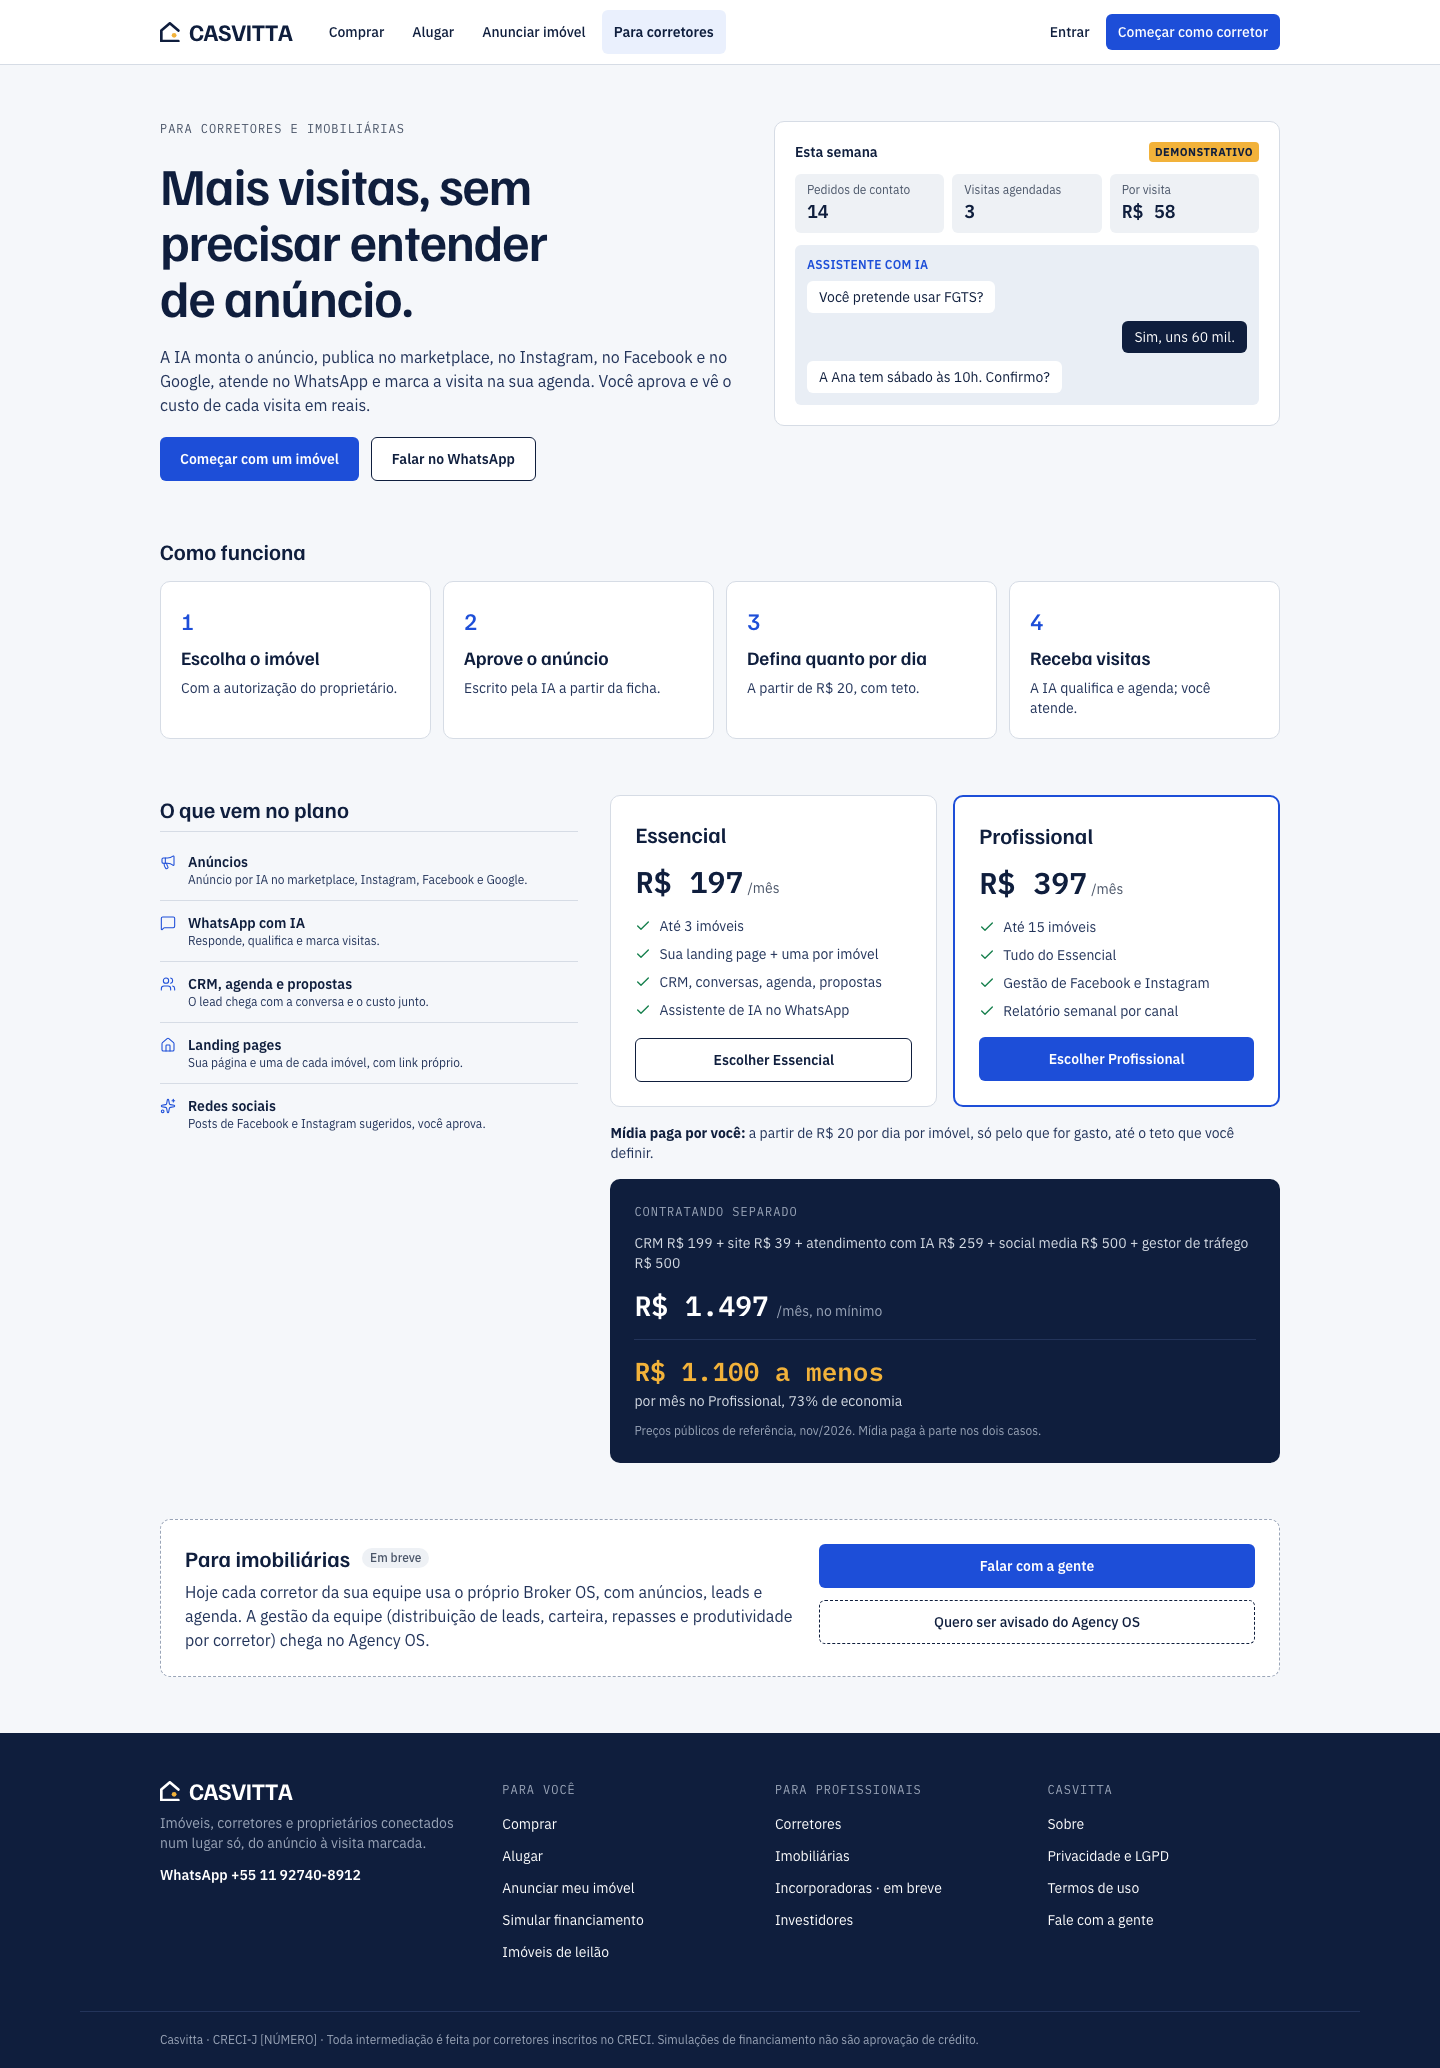
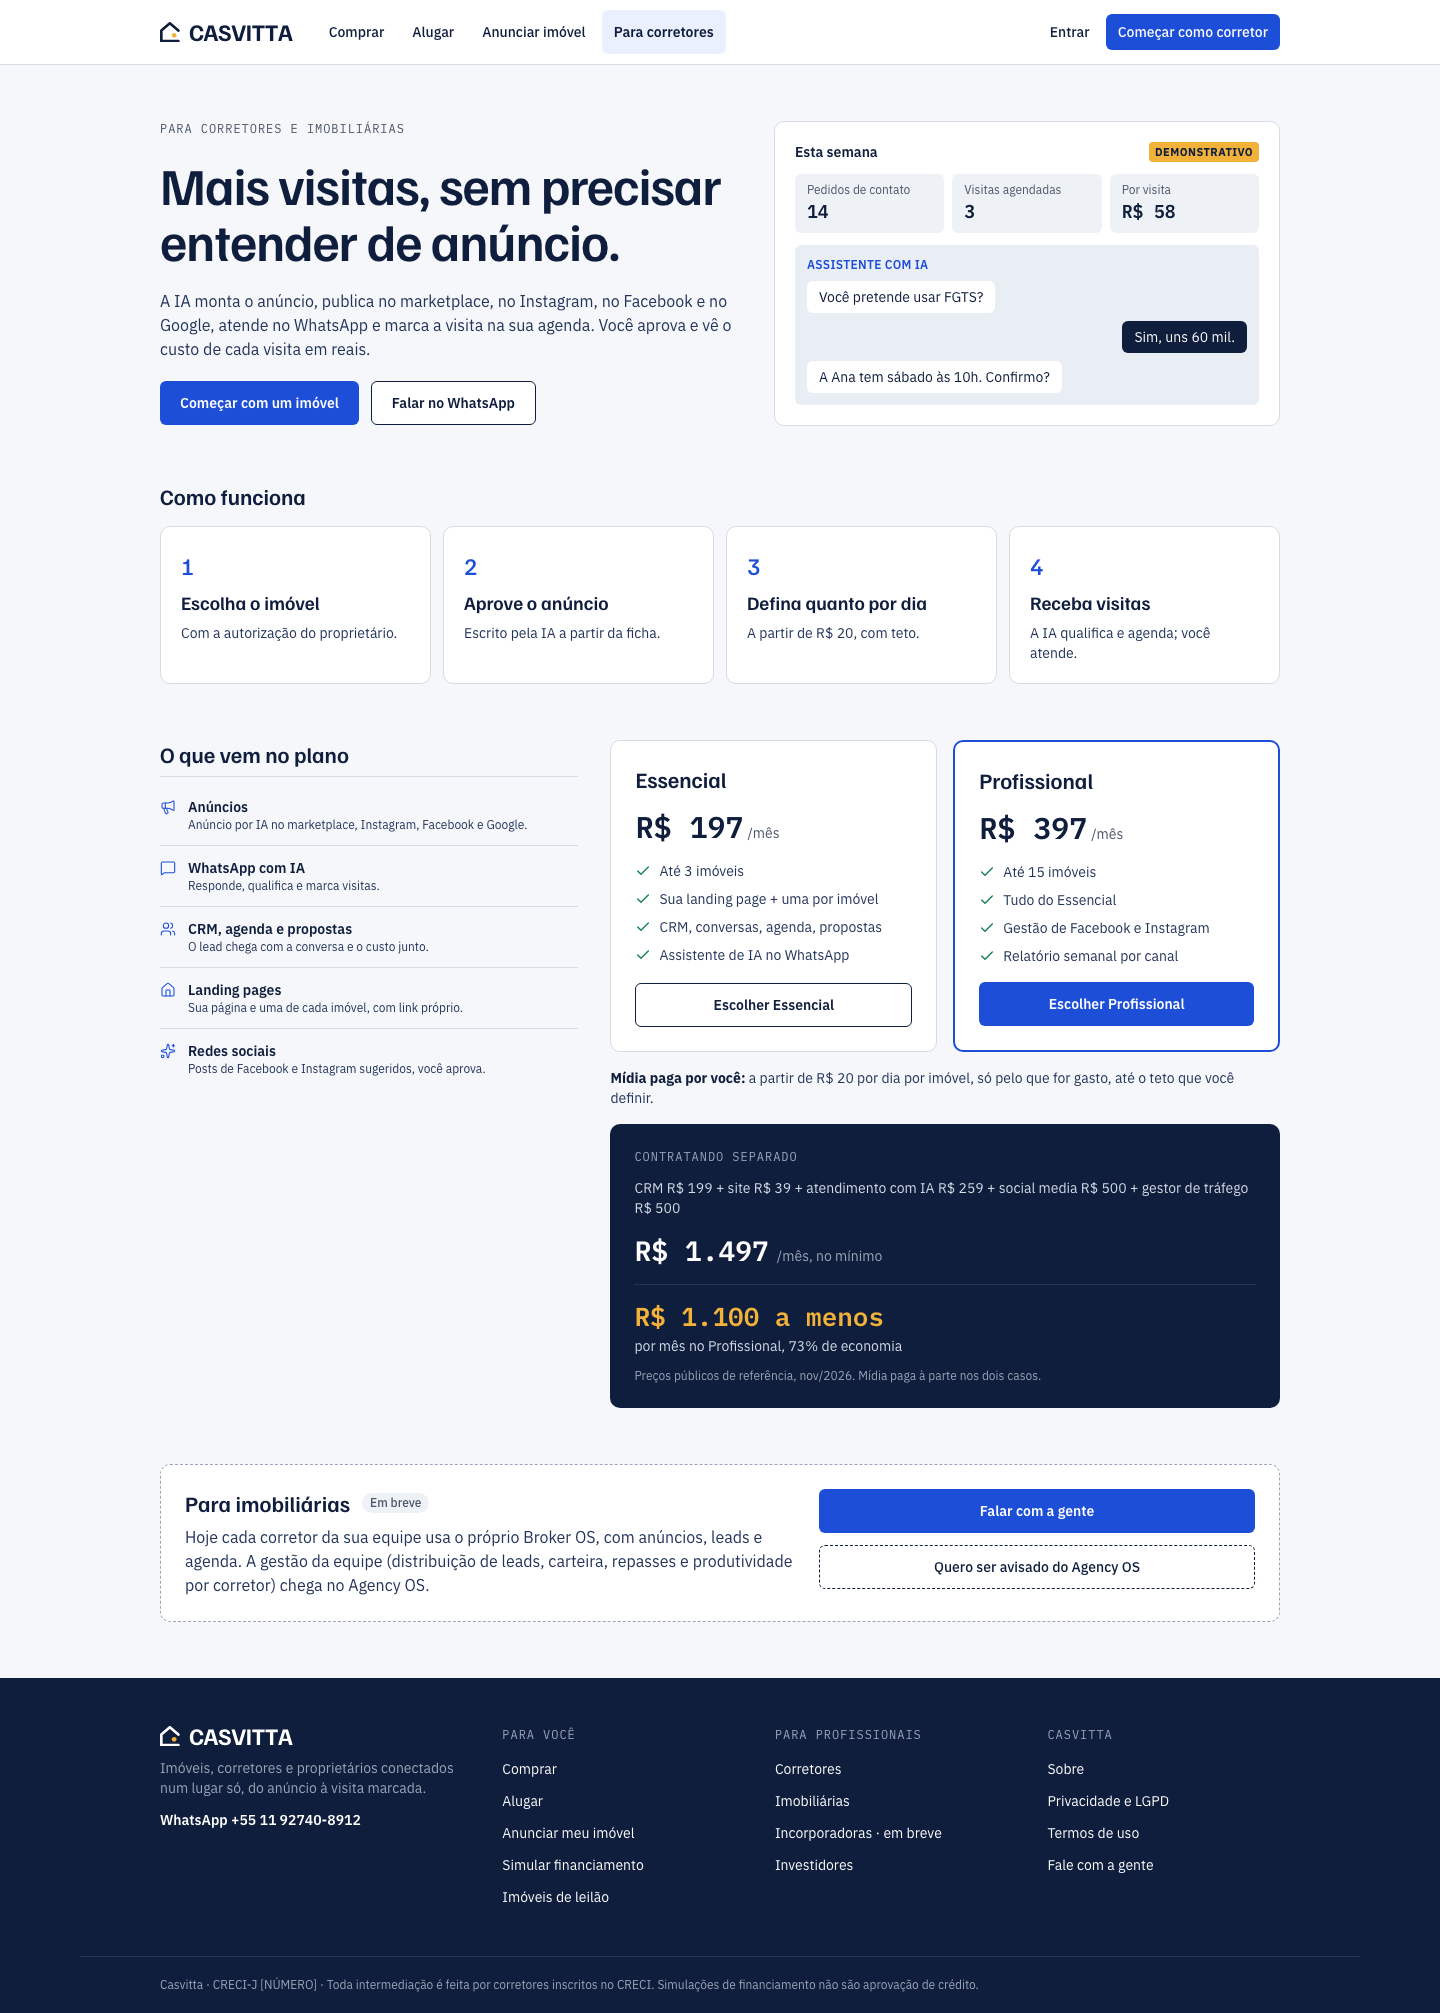
docs: public-site screenshots 51–61 and recorded deviations

diff --git a/docs/mockups/DEVIATIONS.md b/docs/mockups/DEVIATIONS.md
@@ -12,6 +12,9 @@ The mockups are the visual target; CLAUDE.md and DESIGN_SYSTEM.md win on conflic
 | "Sugestão" badge on AI suggestions (lead detail) | "Feito por IA" badge | Every AI-generated text carries "Feito por IA" (CLAUDE.md §4.3) |
 | Buyer chat: first AI message has no self-introduction (25) | "Sou o assistente virtual da Ana Ribeiro" in the first message | CLAUDE.md §4.3 |
 | "Assistente com IA" badge on the Q&A box (13) | "Feito por IA" | CLAUDE.md §4.3 |
+| "Ads Studio" in "O que vem no plano" (54) and the signup steps (55) | "Anúncios" | "Ads Studio" is an internal name only |
+| Featured listings include the Perdizes apartment (51, 53) | Perdizes (Rua Cardoso de Almeida) is left out of the marketplace | It has no owner authorization; nothing is published without one (CLAUDE.md §4.2) |
+| Investor example card without a broker (58) | Card shows the broker name and CRECI | Every published listing shows the responsible broker's CRECI (CLAUDE.md §4.1) |
 
 ## Known differences from Milestone 0.5 (mock data)
 
@@ -29,3 +32,16 @@ Screens are compared in `docs/mockups/_impl/` (`pnpm screens:capture`). These di
 - **Slides (40, 41, 42).** The sales-deck chrome is dropped; the page inside the browser frame is the route. The "[QR]" on 40 becomes an "Agende sua visita" button.
 - **Photos.** Blueprint-grid placeholders stand in for property photos until storage exists.
 - **Cross-host demo state.** The mock store lives in each host's sessionStorage, so a visit booked on `localhost` (buyer chat) does not show on `app.localhost`. The API in Milestone 1 removes this.
+
+## Known differences from Milestone 0.6 (public site, 51–61)
+
+Compared in `docs/mockups/_impl/51-*.png` … `61-*.png`.
+
+- **Demo inventory.** Search results (53) and the home (51/52) also show listings from two fictitious brokers (Bruno Lima, CRECI-SP 111.111-F; Camila Prado, CRECI-SP 222.222-F), all `is_demo`. Ana's Broker OS data is unchanged.
+- **Content width.** Public pages use the same container as the header (max 1280 px with 80 px side padding), so on a 1440 px screen the content is narrower than in the mockups and long titles wrap one line earlier (54, 56, 57, 58, 59).
+- **Form placeholders (56, 57, 59).** The mockups show sample values ("04010-100", "Paulo Mendes", "R$ 700.000") with a "Dados de exemplo · demonstrativo" note. The forms start empty with format placeholders, so the note is dropped.
+- **Agency OS and rental admin waitlists (54, 58).** "Quero ser avisado do Agency OS" and "Avise-me da administração de aluguel" open an inline form (name, WhatsApp, consent) instead of being a single click; signups need a phone and a consent (CLAUDE.md §4.8, §4.11).
+- **Choice chips (58, 59, 60).** Selectable chips use the design-system ChoiceChips (rounded rectangles, 44 px targets) instead of the mockups' small pills.
+- **Auction header on phones (60, 61).** The minimal header shows "Dúvidas? WhatsApp" (a link) instead of the "LEILÕES" label; the "Demonstrativo" badge on 61 sits above the check icon, not in the header, and only appears for `?demo=1` (real submissions show the visitor's own criteria).
+- **Footer on auction pages (60, 61).** The full site footer is kept on phones (the mockups show a compact one), so the legal line and CRECI-J stay visible everywhere.
+- **Not built here.** No consent banner: `track()` stays a no-op until analytics consent exists. `/favoritos`, `/minhas-visitas`, `/sobre`, `/privacidade` and `/termos` are placeholders.
